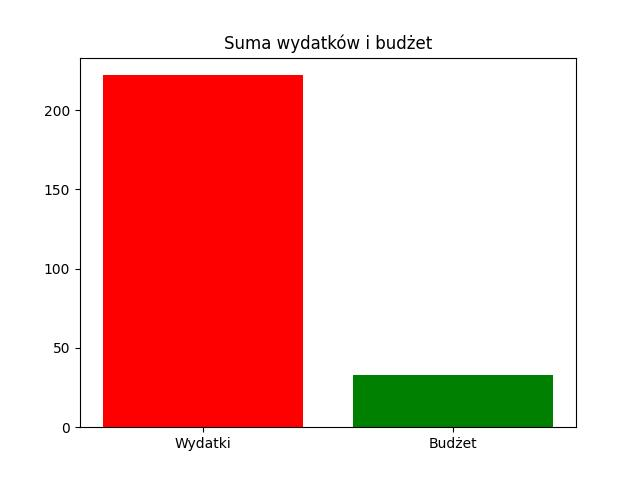
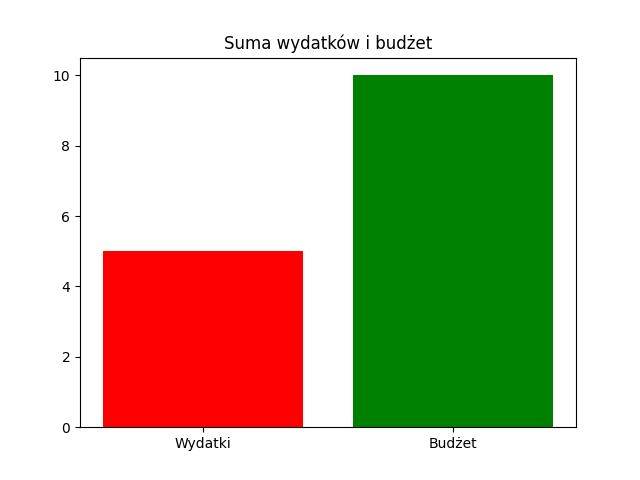
Naprawiony wykres i wyświetlanie sum

diff --git a/wydatki/templates/wydatki/index.html b/wydatki/templates/wydatki/index.html
@@ -26,6 +26,11 @@
         </nav>
         <br>
         <div>
+            <div class="container center">
+                <h3 class='center'>Twój całkowity budżet to: <span style="color:blue;">{{budget}}</span> złotych</h3>
+                <h3 clas='center'>Wydałeś w sumie : <span style="color:red;">{{expenses}}</span> złotych</h3>
+                <h3 clas='center'>Zostało : <span style="color:green;">{{remaining}}</span> złotych</h3>
+            </div>
                                 <form class="col s12" action='{% url "add item" %}' method='post' enctype="multipart/form-data">
                                         {% csrf_token %}
                                         {{ form.as_div }}

diff --git a/wydatki/views.py b/wydatki/views.py
@@ -9,6 +9,7 @@ import matplotlib.pyplot as plt
 import numpy as np
 from django.db.models import Q
 from wydatki.forms import ExpenseDetails  
+import math
 
 
 
@@ -18,7 +19,7 @@ def index(request):
         budget_total = ExpenseInfo.objects.filter(user_expense=request.user).aggregate(budget=Sum('cost',filter=Q(cost__gt=0)))
         expense_total = ExpenseInfo.objects.filter(user_expense=request.user).aggregate(expenses=Sum('cost',filter=Q(cost__lt=0)))
         fig,ax=plt.subplots()
-        ax.bar(['Wydatki','Budżet'], [abs(expense_total['expenses']),budget_total['budget']],color=['red','green'])
+        ax.bar(['Wydatki','Budżet'], [math.ceil(abs(expense_total['expenses'])),math.ceil(budget_total['budget'])],color=['red','green'])
         ax.set_title('Suma wydatków i budżet')
         plt.savefig('wydatki/static/wydatki/expense.jpg')
     except TypeError:
